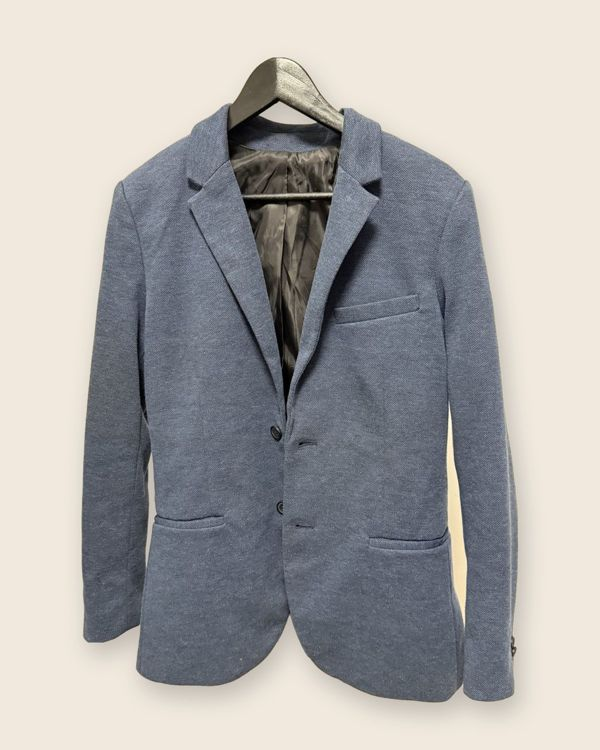
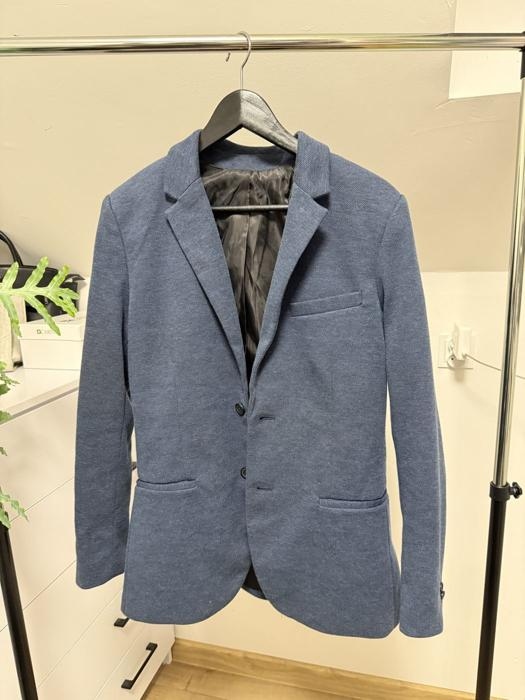
Zdjęcia kategorii z Pexels; na kafelkach i w pokazie z powrotem zwykłe zdjęcia
Claude-Session: https://claude.ai/code/session_01BKkB1GUUbNv1bBZKUuJNU4

diff --git a/strona/app.js b/strona/app.js
@@ -104,9 +104,15 @@
       var items = P.filter(function (p) { return inCat(p, c); });
       var first = items.filter(function (p) { return !p.sprzedane; })[0] || items[0];
       var n = items.filter(function (p) { return !p.sprzedane; }).length;
-      return '<a class="cat" href="#/kolekcja/kat/' + encodeURIComponent(c) + '"><div class="cat__img"><img src="' + img(first, 'thumb') + '" alt="" loading="lazy" width="525" height="700"></div>' +
+      var own = img(first, 'thumb'), kz = (window.KATEGORIE || {})[c];
+      var src = kz && kz.zdjecie ? kz.zdjecie : own;
+      return '<a class="cat" href="#/kolekcja/kat/' + encodeURIComponent(c) + '"><div class="cat__img"><img src="' + esc(src) + '" data-fallback="' + esc(own) + '" alt="' + esc(c) + '" loading="lazy" width="525" height="700"></div>' +
         '<div class="cat__lbl"><b>' + esc(c) + '</b><small>' + n + '</small></div></a>';
     }).join('');
+    // gdy zdjęcie kategorii się nie wczyta, pokaż zdjęcie pierwszej rzeczy z kategorii
+    $$('#catGrid img[data-fallback]').forEach(function (im) {
+      im.addEventListener('error', function () { if (im.src.indexOf(im.getAttribute('data-fallback')) < 0) im.src = im.getAttribute('data-fallback'); });
+    });
     // pasek marek – powtórzony, żeby wypełnił szerokość
     var row = '';
     for (var r = 0; r < 4; r++) BRANDS.forEach(function (b) { row += '<span>' + esc(b) + '</span><i></i>'; });
@@ -119,7 +125,7 @@
   var REEL_MS = 4800, reelI = -1, reelT = null, reelPaused = false;
   REEL.forEach(function (p, i) {
     var d = document.createElement('div'); d.className = 'slide';
-    d.innerHTML = '<img src="' + img(p, p.wyciete ? 'w01' : 1) + '" alt="' + esc(p.marka + ' ' + p.tytul) + '"' + (i ? ' loading="lazy"' : '') + '>';
+    d.innerHTML = '<img src="' + img(p, 1) + '" alt="' + esc(p.marka + ' ' + p.tytul) + '"' + (i ? ' loading="lazy"' : '') + '>';
     reel.insertBefore(d, $('#heroVideo'));
   });
   dots.innerHTML = REEL.map(function () { return '<i></i>'; }).join('');

diff --git a/strona/produkty.js b/strona/produkty.js
@@ -16,6 +16,17 @@ window.SKLEP = {
   wysylka: "Wysyłka w 1–2 dni robocze od zaksięgowania wpłaty, starannie zapakowane.",
 };
 
+/* Zdjęcia kategorii na stronie głównej – darmowe zdjęcia z Pexels (licencja Pexels, bez wymogu podpisu).
+   Nowa kategoria bez wpisu tutaj pokaże zdjęcie pierwszej rzeczy z tej kategorii. */
+window.KATEGORIE = {
+  "Nowe z metką": { zdjecie: "https://images.pexels.com/photos/3812433/pexels-photo-3812433.jpeg?auto=compress&cs=tinysrgb&w=700", zrodlo: "https://www.pexels.com/photo/clothes-on-hangers-hanging-on-clothing-racks-3812433/" },
+  "Swetry": { zdjecie: "https://images.pexels.com/photos/5464589/pexels-photo-5464589.jpeg?auto=compress&cs=tinysrgb&w=700", zrodlo: "https://www.pexels.com/photo/folded-knitted-sweaters-5464589/" },
+  "Bluzy": { zdjecie: "https://images.pexels.com/photos/9594679/pexels-photo-9594679.jpeg?auto=compress&cs=tinysrgb&w=700", zrodlo: "https://www.pexels.com/photo/hoodie-sweaters-hanged-on-a-clothes-rack-9594679/" },
+  "Marynarki": { zdjecie: "https://images.pexels.com/photos/7778886/pexels-photo-7778886.jpeg?auto=compress&cs=tinysrgb&w=700", zrodlo: "https://www.pexels.com/photo/striped-blazer-on-a-clothes-rack-7778886/" },
+  "Kurtki": { zdjecie: "https://images.pexels.com/photos/6045058/pexels-photo-6045058.jpeg?auto=compress&cs=tinysrgb&w=700", zrodlo: "https://www.pexels.com/photo/black-coat-hanging-on-silver-rack-6045058/" },
+  "Kamizelki": { zdjecie: "https://images.pexels.com/photos/16170/pexels-photo-16170.jpeg?auto=compress&cs=tinysrgb&w=700", zrodlo: "https://www.pexels.com/photo/assorted-color-bubble-jackets-hanged-16170/" },
+};
+
 window.PRODUKTY = [
   {
     kod: "PN001",

diff --git a/strona/index.html b/strona/index.html
@@ -124,7 +124,7 @@
         <p class="honest__lead">Każdą rzecz sprawdzam osobiście, mierzę i fotografuję, zanim trafi do sklepu. Jeśli coś jest nie tak, piszę o tym wprost.</p>
       </div>
       <ol class="steps">
-        <li><span>01</span><div><h3>Prawdziwe zdjęcia</h3><p>Na zdjęciach jest dokładnie ten egzemplarz, który dostaniesz. Pierwsze dwa są wycięte z tła, żeby rzecz była dobrze widoczna, reszta jest bez obróbki.</p></div></li>
+        <li><span>01</span><div><h3>Prawdziwe zdjęcia</h3><p>Na zdjęciach rzeczy jest dokładnie ten egzemplarz, który dostaniesz: przód, tył, metka i detale.</p></div></li>
         <li><span>02</span><div><h3>Wymiary z miarką</h3><p>Mierzę na płasko, w centymetrach. Brakuje wymiaru? Napisz, zmierzę.</p></div></li>
         <li><span>03</span><div><h3>Wady nazwane po imieniu</h3><p>Każda plama, przetarcie czy spranie jest opisane i pokazane na zdjęciu z numerem.</p></div></li>
       </ol>
@@ -244,7 +244,7 @@
   </div>
   <div class="wrap footer__bottom">
     <span>© <span id="year"></span> Prawie Nowe by Kuba</span>
-    <span>Nazwy marek należą do ich właścicieli. Nie jestem autoryzowanym dystrybutorem.</span>
+    <span>Nazwy marek należą do ich właścicieli. Nie jestem autoryzowanym dystrybutorem. Zdjęcia kategorii: <a href="https://www.pexels.com" target="_blank" rel="noopener" style="text-decoration:underline">Pexels</a>.</span>
   </div>
 </footer>
 

diff --git a/strona/prywatnosc.html b/strona/prywatnosc.html
@@ -50,7 +50,7 @@
 
   <h2>Pliki cookies</h2>
   <p>Strona nie używa plików cookies śledzących ani narzędzi analitycznych. Koszyk zapisuje się tylko w pamięci Twojej przeglądarki (localStorage) i nie trafia do mnie.</p>
-  <p>Czcionki na stronie pochodzą z Google Fonts. Przy wyświetlaniu strony Twoja przeglądarka łączy się z serwerami Google, które poznają przy tym Twój adres IP.</p>
+  <p>Czcionki na stronie pochodzą z Google Fonts. Przy wyświetlaniu strony Twoja przeglądarka łączy się z serwerami Google, które poznają przy tym Twój adres IP. Zdjęcia kategorii na stronie głównej wczytują się z serwisu Pexels, który w ten sam sposób poznaje Twój adres IP.</p>
 
   <h2>Twoje prawa</h2>
   <p>Masz prawo do dostępu do danych, ich sprostowania, usunięcia, ograniczenia przetwarzania, przeniesienia oraz sprzeciwu. Możesz też złożyć skargę do Prezesa Urzędu Ochrony Danych Osobowych. Aby skorzystać z praw, napisz na <a href="mailto:prawienowebykuba@gmail.com">prawienowebykuba@gmail.com</a> albo na Instagramie.</p>
